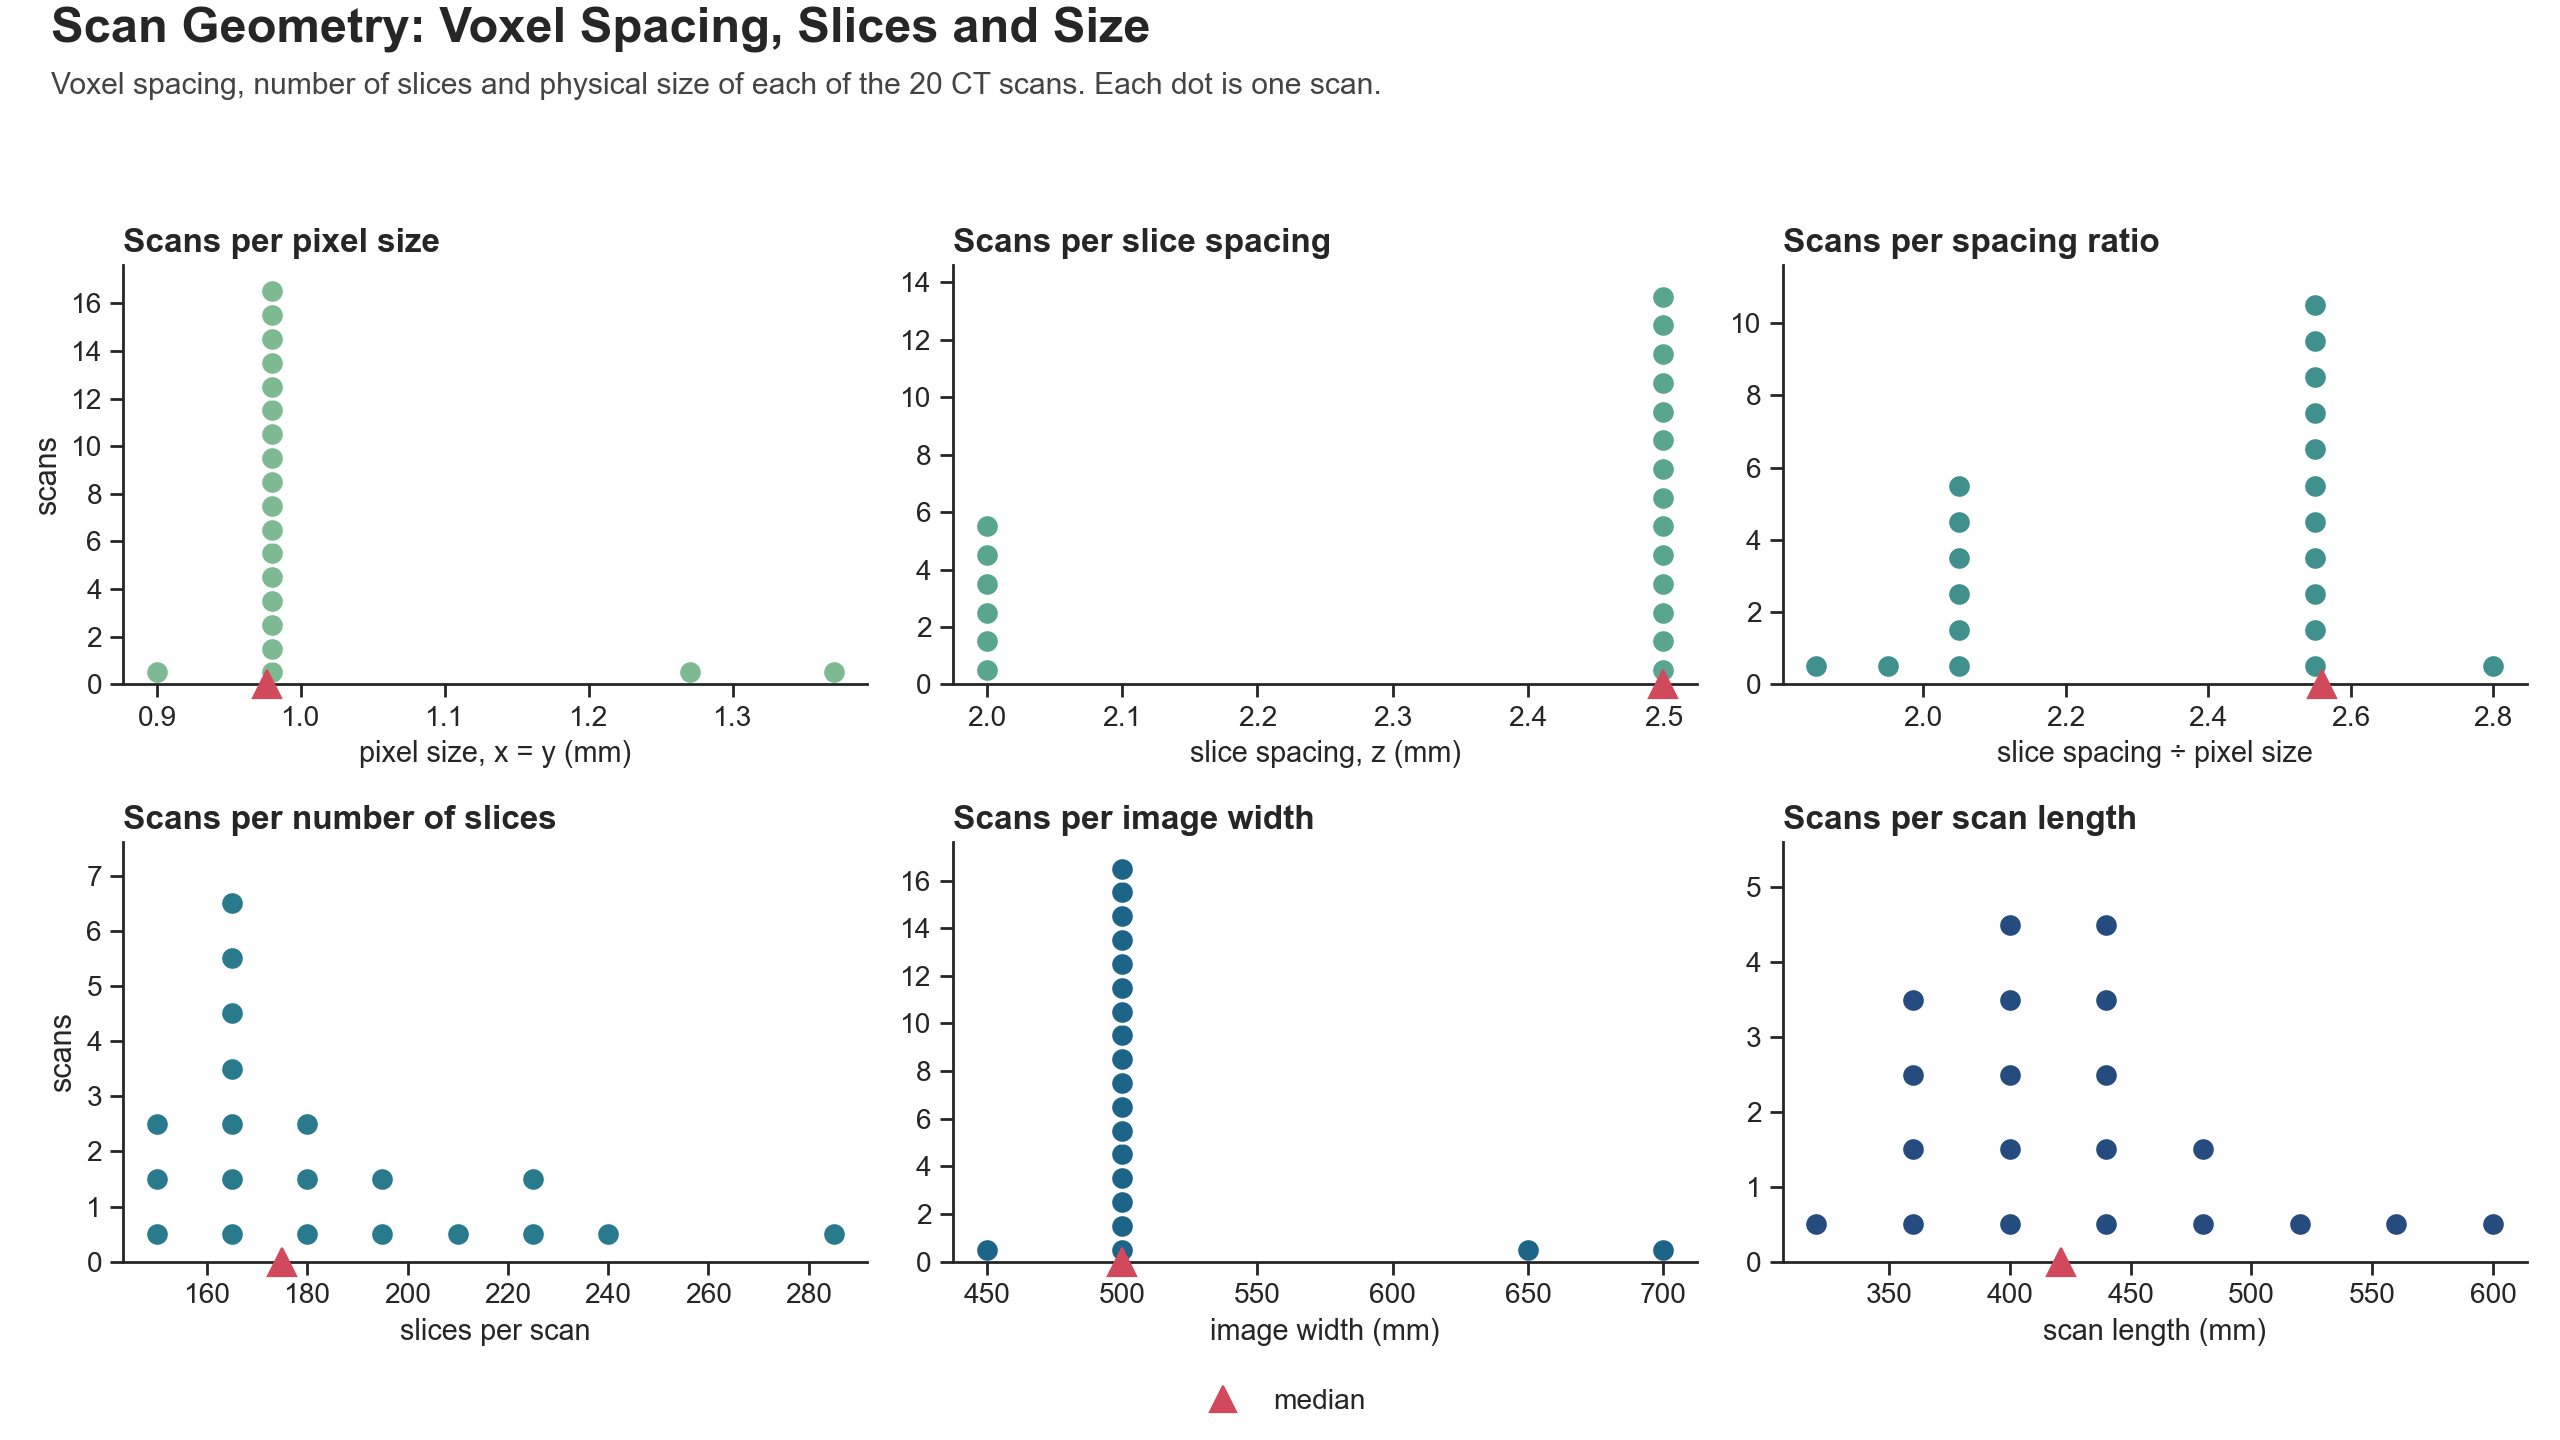
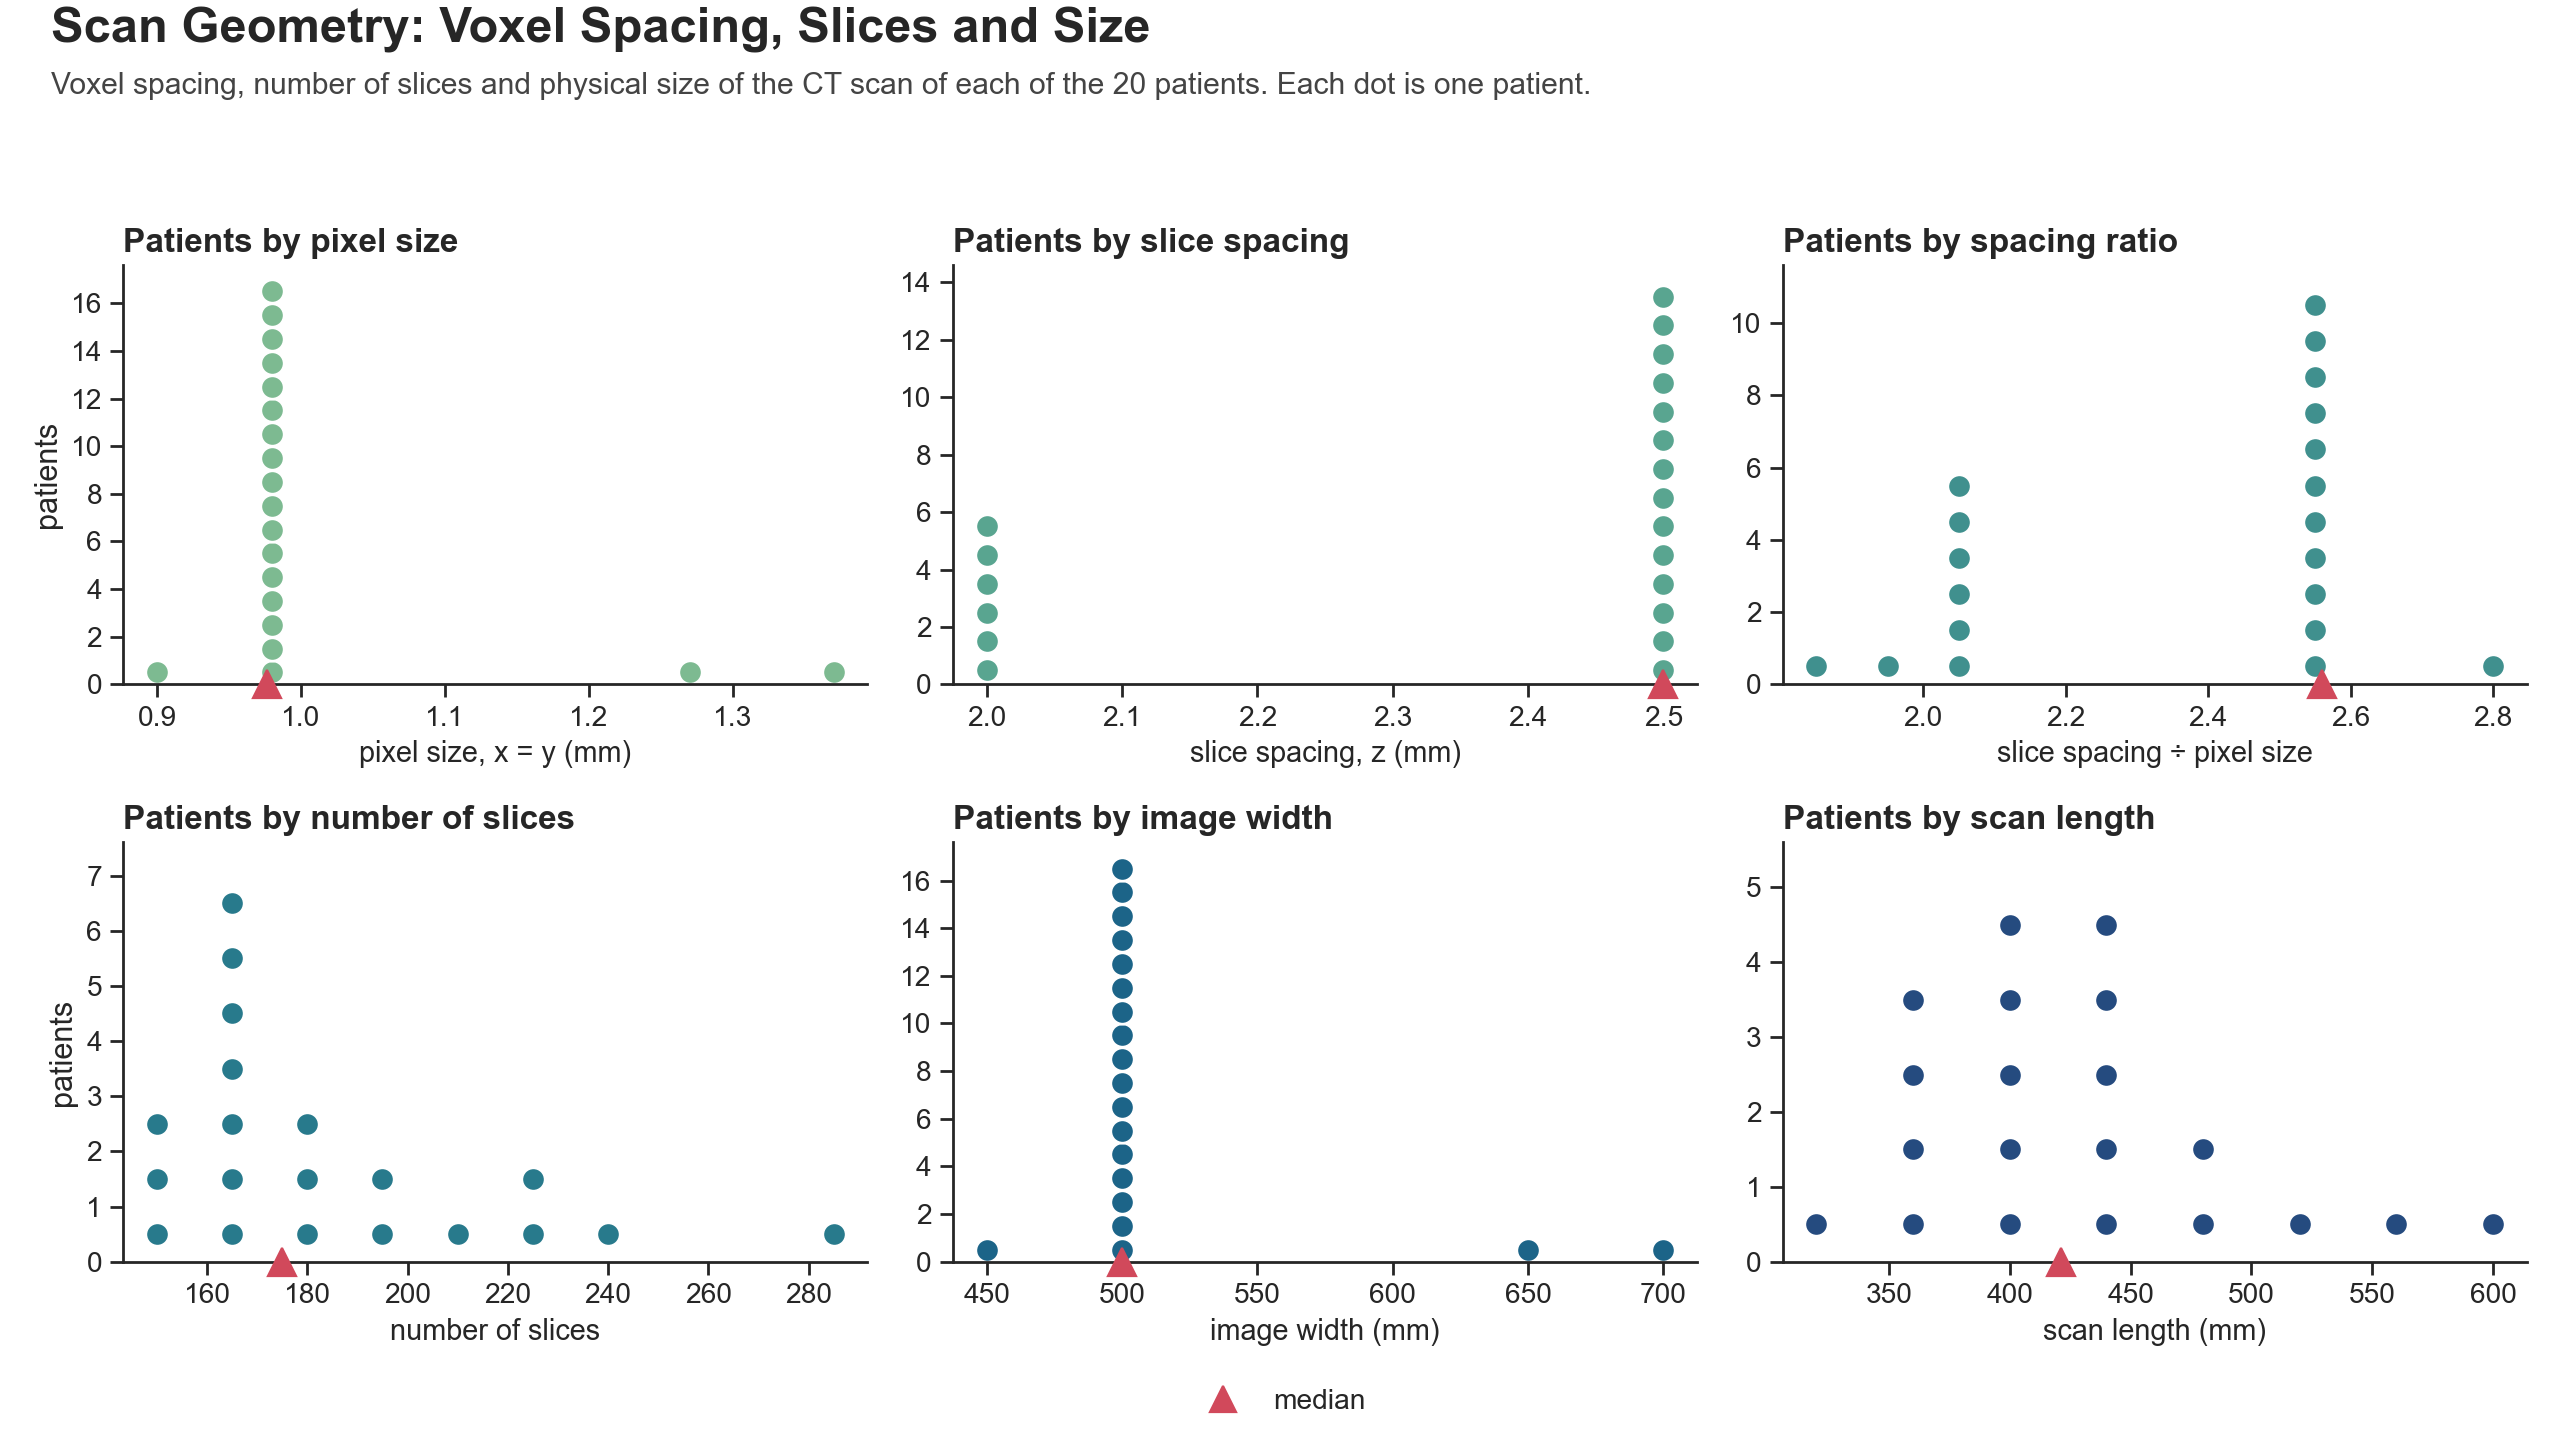
Label scan geometry panels by patient

diff --git a/tools/scan_geometry_figure.py b/tools/scan_geometry_figure.py
@@ -30,12 +30,12 @@ from plot_style import apply_ticks_style
 MEDIAN_COLOR = "#D1495B"
 # (column, panel title, x-axis label, bin width); bins are centred on multiples of the width
 PANELS = [
-    ("x_spacing_mm", "Scans per pixel size", "pixel size, x = y (mm)", 0.01),
-    ("z_spacing_mm", "Scans per slice spacing", "slice spacing, z (mm)", 0.01),
-    ("spacing_ratio", "Scans per spacing ratio", "slice spacing ÷ pixel size", 0.05),
-    ("z_voxels", "Scans per number of slices", "slices per scan", 15),
-    ("x_extent_mm", "Scans per image width", "image width (mm)", 25),
-    ("z_extent_mm", "Scans per scan length", "scan length (mm)", 40),
+    ("x_spacing_mm", "Patients by pixel size", "pixel size, x = y (mm)", 0.01),
+    ("z_spacing_mm", "Patients by slice spacing", "slice spacing, z (mm)", 0.01),
+    ("spacing_ratio", "Patients by spacing ratio", "slice spacing ÷ pixel size", 0.05),
+    ("z_voxels", "Patients by number of slices", "number of slices", 15),
+    ("x_extent_mm", "Patients by image width", "image width (mm)", 25),
+    ("z_extent_mm", "Patients by scan length", "scan length (mm)", 40),
 ]
 
 
@@ -89,7 +89,7 @@ def main():
         ax.set_xlabel(xlabel, fontsize=13)
         sns.despine(ax=ax)
     for ax in axes[:, 0]:
-        ax.set_ylabel("scans")
+        ax.set_ylabel("patients")
     fig.legend(
         handles=[plt.Line2D([], [], marker="^", ls="", color=MEDIAN_COLOR, markersize=12, label="median")],
         loc="lower center",
@@ -101,8 +101,8 @@ def main():
     fig.text(
         0.02,
         0.935,
-        f"Voxel spacing, number of slices and physical size of each of the {len(scans)} CT scans. "
-        "Each dot is one scan.",
+        f"Voxel spacing, number of slices and physical size of the CT scan of each of the {len(scans)} patients. "
+        "Each dot is one patient.",
         fontsize=13.5,
         color="#444444",
         ha="left",
